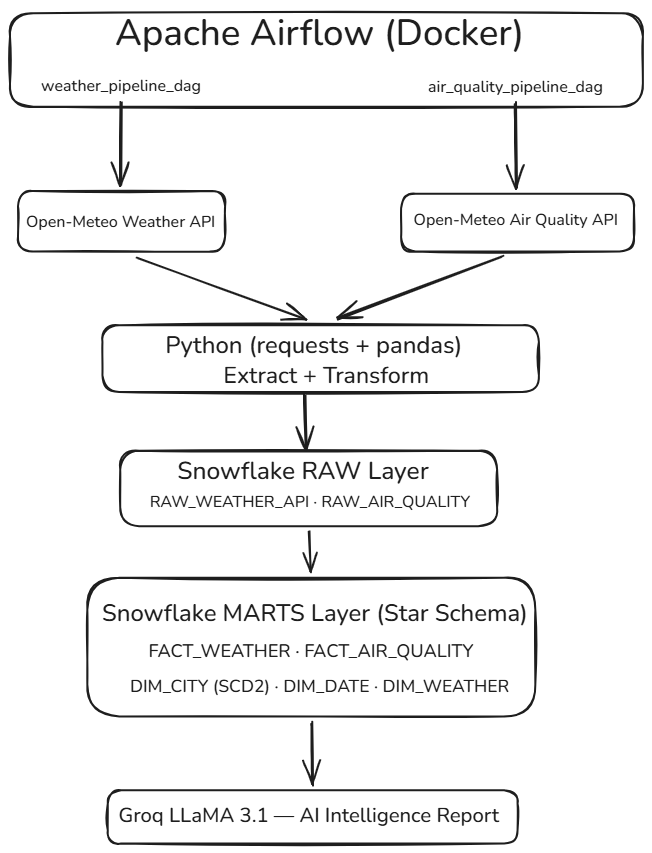
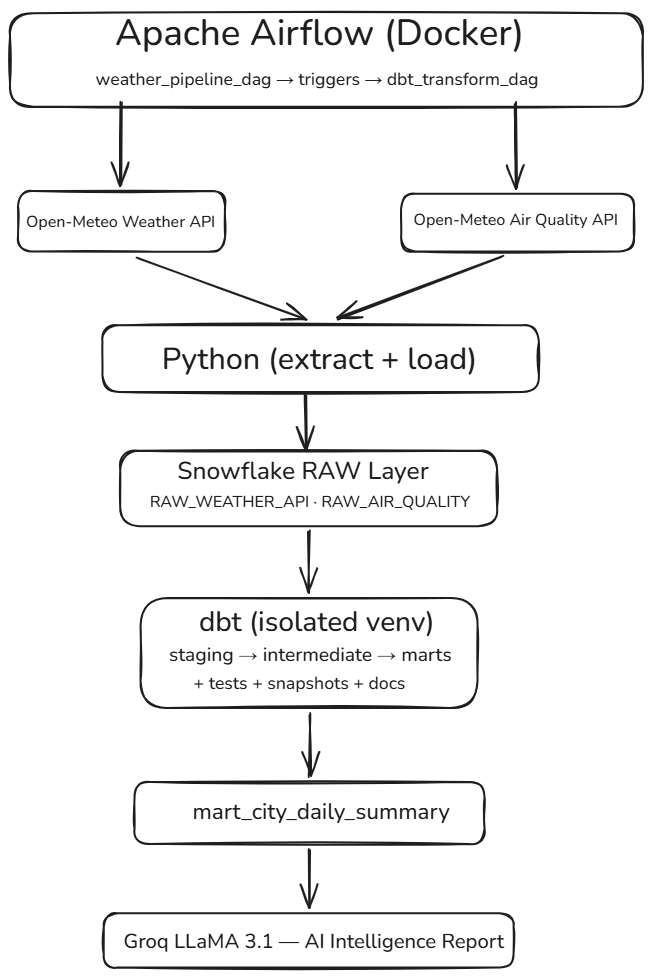
feat: week 3 day 6 - custom dbt Dockerfile, README dbt section, cleanup, end-to-end verified

Changed region(s): [[0.0, 0.0, 1.0, 1.0]]

diff --git a/README.md b/README.md
@@ -9,6 +9,7 @@
 ![Snowflake](https://img.shields.io/badge/Snowflake-Standard-29B5E8)
 ![Airflow](https://img.shields.io/badge/Apache%20Airflow-Docker-017CEE)
 ![Docker](https://img.shields.io/badge/Docker-Compose-2496ED)
+![dbt](https://img.shields.io/badge/dbt-Core-FF694B)
 ![Groq](https://img.shields.io/badge/Groq-LLaMA%203.1-orange)
 ![SQL](https://img.shields.io/badge/SQL-Snowflake-red)
 ![License](https://img.shields.io/badge/License-MIT-green)
@@ -168,6 +169,45 @@ conformed star schema.
 - An Airflow **Pool** that throttles concurrent API calls to protect the source
 - Credentials stored in Airflow Connections and a mounted `.env` -- never hardcoded in DAGs
 - Runs under a least-privilege **`PIPELINE_ROLE`**, not an admin role
+
+---
+
+## Transformation (dbt)
+
+The transformation layer is built with dbt Core, following the modern ELT pattern —
+Python extracts and loads raw data, dbt transforms it inside Snowflake using tested,
+version-controlled SQL models.
+
+### Data Lineage
+
+![dbt lineage](docs/dbt_lineage.png)
+
+### Model layers
+
+| Layer | Models | Materialization |
+|---|---|---|
+| Staging | stg_weather, stg_air_quality | view |
+| Intermediate | int_daily_weather | view |
+| Marts | dim_city, fct_weather_readings, fct_air_quality_readings, mart_city_daily_summary | table / incremental |
+
+### Key features
+
+- **Staging layer** deduplicates and cleans raw data (row_number over city + timestamp)
+- **Incremental models** with merge strategy for idempotent fact loads
+- **Snapshots** implement SCD Type 2 automatically for the city dimension
+- **Data tests** — built-in (unique, not_null, relationships) plus dbt_expectations
+  (range and row-count assertions)
+- **Source freshness** monitoring to detect stalled pipelines
+- **Documentation & lineage** — auto-generated catalogue with a full DAG from source to AI report
+- **Exposures** document the AI report as a downstream consumer
+
+### dbt + Airflow
+
+dbt runs in an isolated virtualenv inside a custom Airflow Docker image, keeping its
+dependencies separate from Airflow's. The ingestion DAG triggers the dbt DAG via
+TriggerDagRunOperator, so the full ELT flow is orchestrated end to end.
+
+---
 
 ### Snowflake-native scheduling
 

diff --git a/docs/week3_notes.md b/docs/week3_notes.md
@@ -19,3 +19,6 @@ This separates imperative E+L (Python) from declarative T (dbt) — the defining
 
 The AI summary now reads from mart_city_daily_summary — a tested, documented dbt mart — instead of ad-hoc raw SQL. This means the AI's input is validated by dbt tests every run:
 if temperature is out of range or a city+date duplicates, the pipeline fails before the AI sees bad data. The exposure in dbt documents this dependency in the lineage graph.
+
+dbt is now baked into a custom Airflow image via a Dockerfile (build: . in docker-compose).
+The venv at /opt/airflow/dbt_venv persists across restarts. To rebuild after Dockerfile changes: docker compose build. No more manual venv installs.